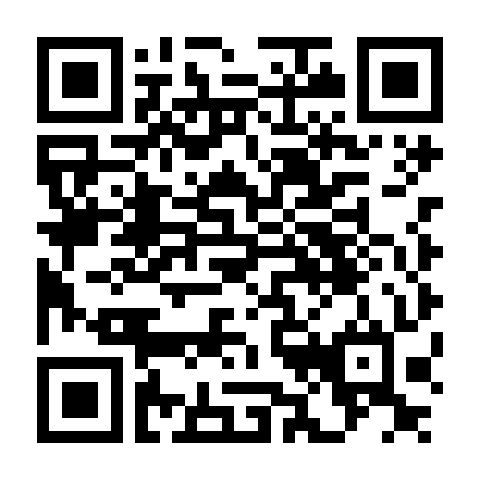
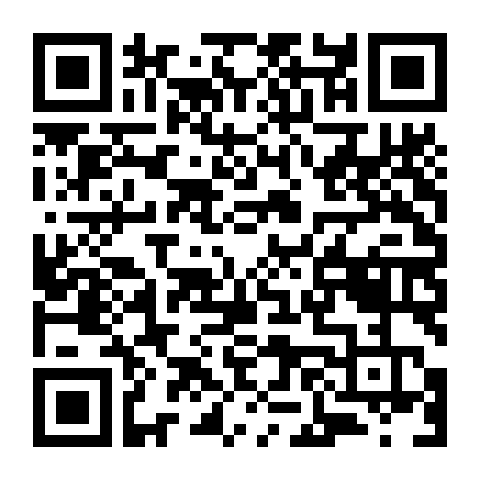
Update link to slides

diff --git a/ipmar_proteomics_2022-06-01/index.html b/ipmar_proteomics_2022-06-01/index.html
@@ -192,7 +192,7 @@ class: final-slide
 
 ]
 
-These slides can be found from the QR code below, or at this address:&lt;br&gt;[https://h-mateus.github.io/presentations/gregynog_2022-04-28/index.html#1](https://h-mateus.github.io/presentations/gregynog_2022-04-28/index.html#1)
+These slides can be found from the QR code below, or at this address:&lt;br&gt;[https://h-mateus.github.io/presentations/ipmar_proteomics_2022-06-01/index.html#1](https://h-mateus.github.io/presentations/ipmar_proteomics_2022-06-01/index.html#1)
 
 
 
